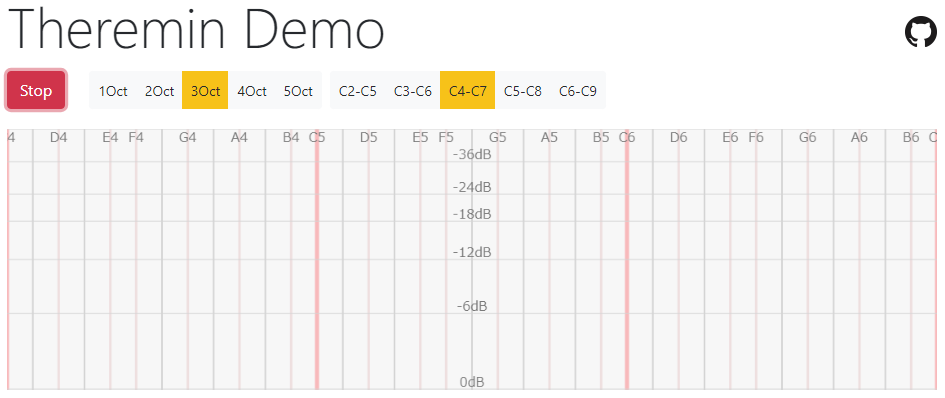
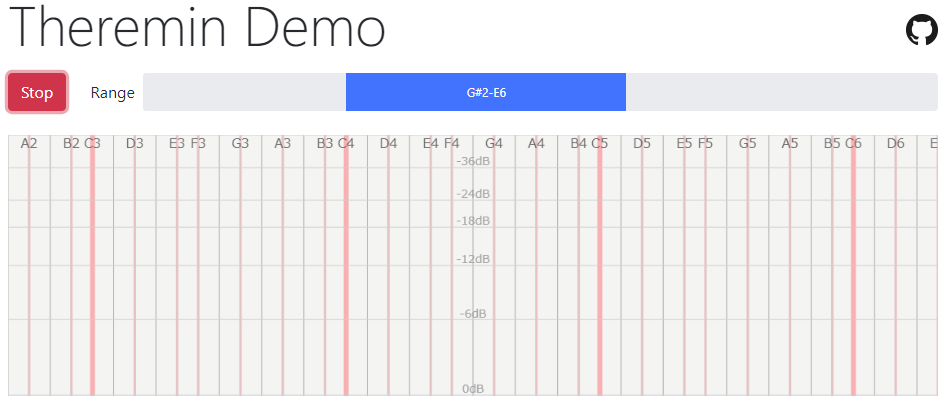
refine graphics

diff --git a/src/js/theremin-canvas.js b/src/js/theremin-canvas.js
@@ -1,6 +1,20 @@
 import $ from 'jquery';
 import MIDI_NOTE from './midi-note';
 
+const COLOR_BACKGROUND = '#f5f4f3',
+      TEXT_COLOR_NOTE = '#676365',
+      TEXT_COLOR_LEVEL = '#a1a1a1',
+      FONT_NOTE = '16px sans-serif',
+      FONT_LEVEL = '14px sans-serif',
+      LINE_WIDTH_C = 6,
+      LINE_WIDTH_SCALE = 3,
+      LINE_WIDTH_SEMITONE = 1,
+      LINE_WIDTH_LEVEL = 1,
+      LINE_COLOR_C = '#ffb2b2',
+      LINE_COLOR_SCALE = '#e9c5c5',
+      LINE_COLOR_SEMITONE = '#acacac',
+      LINE_COLOR_LEVEL = '#d0d0d0';
+
 // Teremin canvas
 // --------------
 class ThereminCanvas {
@@ -30,39 +44,38 @@ class ThereminCanvas {
     const W = this.width,
           H = this.height,
           ctx = this.ctx;
-    ctx.fillStyle = '#f7f7f7';
+    ctx.fillStyle = COLOR_BACKGROUND;
     ctx.fillRect(0, 0, W, H);
-    ctx.lineWidth = 2;
-    ctx.strokeStyle = '#e3e3e3';
-    ctx.fillStyle = '#777';
-    ctx.font = '16px sans-serif';
+    ctx.fillStyle = TEXT_COLOR_NOTE;
+    ctx.font = FONT_NOTE;
     ctx.textAlign = 'center';
     ctx.textBaseline = 'top';
     for (let n = this.L; n <= this.H; n++) {
       const x = W * (n - this.L) / (this.H - this.L);
       ctx.beginPath();
       const note = MIDI_NOTE[n],
-            isSemitone = note.indexOf('#') != -1;
-      ctx.lineWidth = isSemitone ? 2
-                                 : (n % 12) == 0 ? 5
-                                                 : 3;
-      ctx.strokeStyle = isSemitone ? '#d5d5d5'
-                                   : (n % 12) == 0 ? '#fbb'
-                                                   : '#f0e0e0';
+            isC = n % 12 == 0,
+            isSemitone = note.indexOf('#') != -1,
+            isWide = this.H - this.L > 60;
+      ctx.lineWidth = isSemitone ? LINE_WIDTH_SEMITONE
+                                 : isC ? LINE_WIDTH_C : LINE_WIDTH_SCALE;
+      ctx.strokeStyle = isSemitone ? LINE_COLOR_SEMITONE
+                                   : isC ? LINE_COLOR_C : LINE_COLOR_SCALE;
       ctx.moveTo(x, 0);
       ctx.lineTo(x, H);
       ctx.stroke();
-      if (!isSemitone) {
+      if (!isSemitone && (isC || !isWide)) {
         ctx.fillText(note, x, 2);
       }
     }
-    ctx.lineWidth = 1;
-    ctx.strokeStyle = '#d5d5d5';
+    ctx.lineWidth = LINE_WIDTH_LEVEL;
+    ctx.strokeStyle = LINE_COLOR_LEVEL;
+    ctx.fillStyle = TEXT_COLOR_LEVEL;
     ctx.beginPath();
     ctx.moveTo(0, 0);
     ctx.lineTo(W, 0);
     ctx.textBaseline = 'bottom';
-    ctx.font = '14px sans-serif';
+    ctx.font = FONT_LEVEL;
     for (let level of [[H/8, -36],
                        [H/4, -24],
                        [H/(2*Math.sqrt(2)), -18],
